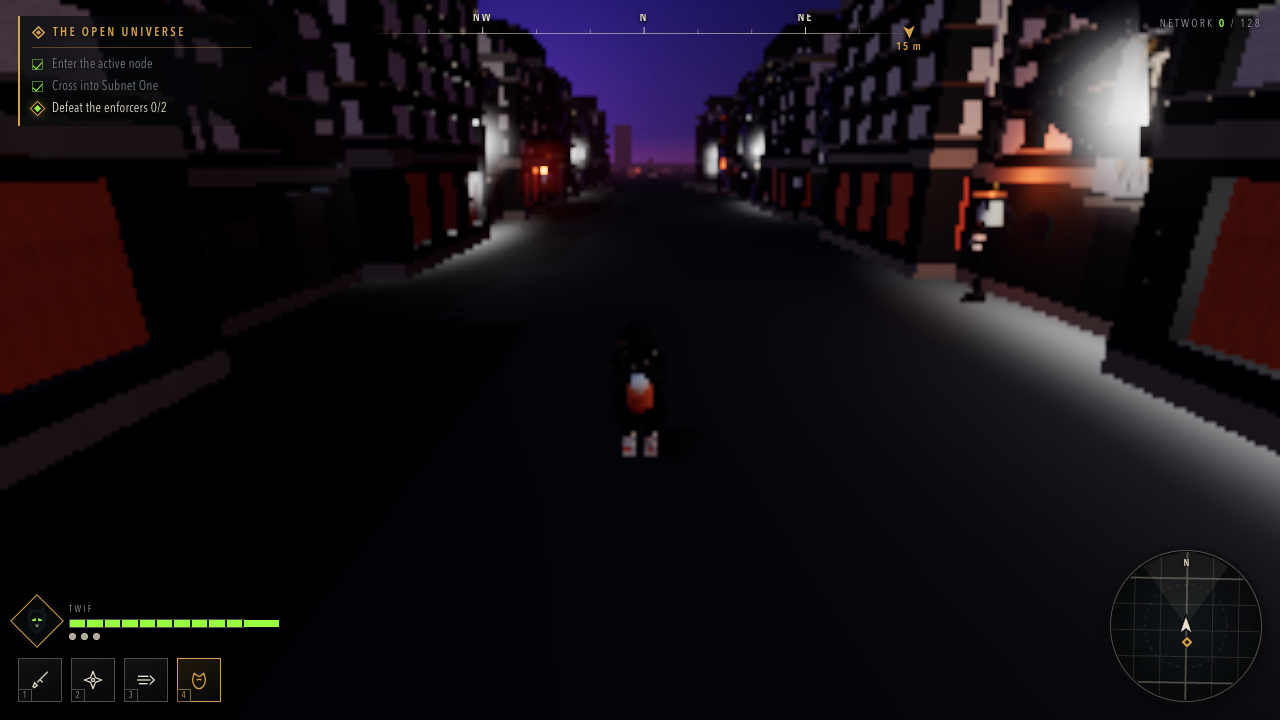
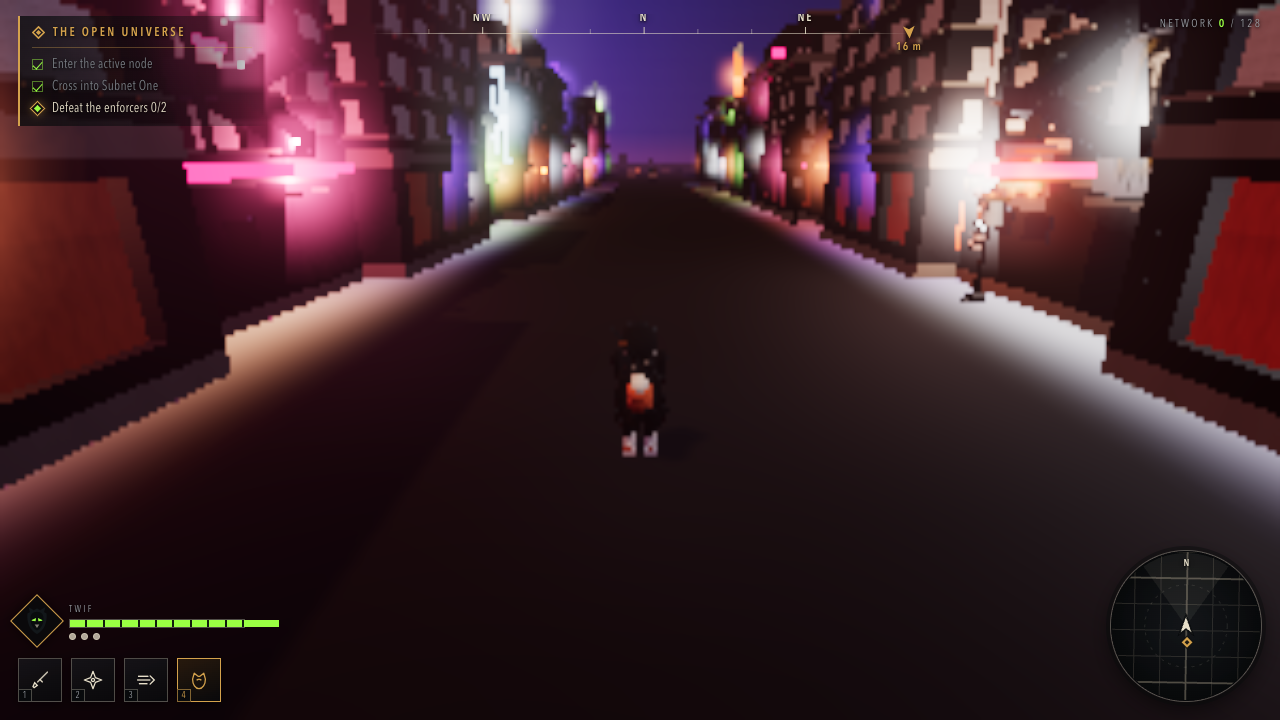
Neon street: blades, billboards and colour on the ground
The build read as grey boxes because the concept frames are mostly NEON, and
we had almost none. Added vertical blade signs marching up both sides, big
billboards on the upper facades using the poster art, and low strips along
the shopfront line -- that last one is what puts colour on the ground rather
than only on the walls. Every panel lights what is around it.

Landmarks placed: TAO MART (its sign letterboxed onto the real fascia rather
than stretched 50% to fit), the control node, and the corporate entrance.

Two tuning passes, both from looking: emissive at 2.4 blew every sign to
white and took the hue with it, so it is 1.45 and the bloom does the glow;
and the first hero rim light flooded the whole road, so it is a quarter of
the strength and sits at head height.

diff --git a/game/src/world.js b/game/src/world.js
@@ -4,7 +4,7 @@
 import * as THREE from 'three';
 import { mergeGeometries } from 'three/addons/utils/BufferGeometryUtils.js';
 import { ASSET } from '../assetlib.js';
-import { loadSignage, makeBanner, makePoster, makeFascia } from './signage.js';
+import { loadSignage, makeSign, makeBanner, makePoster, makeFascia } from './signage.js';
 import { SCALE, HUB, SUB } from './config.js';
 
 const M = (color, opts = {}) => new THREE.MeshStandardMaterial({ color, roughness: 0.82, ...opts });
@@ -119,6 +119,11 @@ export async function loadAssets(onProgress = () => {}) {
   await tryAsset('block',   './assets/shop_block.js',     { surfaces: true });
   await tryAsset('shrine',  './assets/const_shrine.js',   { surfaces: true });
   await tryAsset('dojo',    './assets/dojo_facade.js',    { surfaces: true });
+  await tryAsset('store',   './assets/convenience_store.js', { surfaces: true });
+  await tryAsset('node',    './assets/control_node.js',   { surfaces: true });
+  await tryAsset('corp',    './assets/corp_entrance.js',  { surfaces: true });
+  await tryAsset('crate',   './assets/street_crate.js',   { surfaces: true });
+  await tryAsset('barrier', './assets/traffic_barrier.js',{ surfaces: true });
   onProgress(1, 'ready');
 }
 
@@ -378,16 +383,26 @@ export function buildSubnet() {
   arena.position.set(X, -0.3, SUB.arenaZ); arena.receiveShadow = true;
   g.add(arena);
 
-  const tower = new THREE.Mesh(new THREE.BoxGeometry(10, 26, 10), MAT.cream);
   // Off-axis on purpose: centred here it walls off the return gate behind it
   // and the mission cannot be finished.
-  tower.position.set(X - 19, 13, SUB.arenaZ - 18); tower.castShadow = true;
-  g.add(tower);
+  const genCorp = charInstance('corp');
+  if (genCorp) {
+    genCorp.position.set(X - 19, 0, SUB.arenaZ - 18);
+    genCorp.rotation.y = Math.PI * 0.72;
+    g.add(genCorp);
+    const cl = new THREE.PointLight(0xBFE4FF, 10, 26, 2);
+    cl.position.set(X - 15, 4.2, SUB.arenaZ - 14); g.add(cl);
+  } else {
+    const tower = new THREE.Mesh(new THREE.BoxGeometry(10, 26, 10), MAT.cream);
+    tower.position.set(X - 19, 13, SUB.arenaZ - 18); tower.castShadow = true;
+    g.add(tower);
+  }
   blockers.push({ x: X - 19, z: SUB.arenaZ - 18, hx: 5, hz: 5 });
 
   // the control node: the thing the mission is about
-  const node = new THREE.Mesh(new THREE.BoxGeometry(2.4, 6, 2.4), MAT.metal);
-  node.position.set(X, 3, SUB.arenaZ);
+  const genNode = charInstance('node');
+  const node = genNode || new THREE.Mesh(new THREE.BoxGeometry(2.4, 6, 2.4), MAT.metal);
+  node.position.set(X, genNode ? 0 : 3, SUB.arenaZ);
   g.add(node);
   blockers.push({ x: X, z: SUB.arenaZ, hx: 1.4, hz: 1.4 });
 
@@ -416,7 +431,27 @@ export function buildSubnet() {
   const FACE_R = -Math.PI / 2;   // right-hand buildings face -X
 
   // the shopfront that anchors the street
-  litSign(makeFascia('sign_taomart', 5.6, MAT.metal), X + 7.9, 3.5, SUB.streetZ0 - 12, FACE_R, 0xE66D32, 17);
+  const genStore = charInstance('store');
+  if (genStore) {
+    genStore.position.set(X + 11.4, 0, SUB.streetZ0 - 30);
+    genStore.rotation.y = FACE_R;
+    g.add(genStore);
+    // The store's fascia is 4.67:1 and the art is 3.04:1, so the sign is sized
+    // to the panel's HEIGHT and centred — stretched lettering is worse than a
+    // margin, and the fascia is a lightbox field so cream margins read right.
+    const sign = makeSign('sign_taomart', 1.42, { glow: 1.4 });
+    if (sign) {
+      sign.position.set(X + 8.36, 2.90, SUB.streetZ0 - 30 + 0.02);
+      sign.rotation.y = FACE_R;
+      g.add(sign);
+      const sl = new THREE.PointLight(0xE66D32, 11, 18, 2);
+      sl.position.set(X + 7.2, 2.6, SUB.streetZ0 - 30);
+      g.add(sl);
+    }
+    blockers.push({ x: X + 11.4, z: SUB.streetZ0 - 30, hx: 3.2, hz: 4.0 });
+  } else {
+    litSign(makeFascia('sign_taomart', 5.6, MAT.metal), X + 7.9, 3.5, SUB.streetZ0 - 12, FACE_R, 0xE66D32, 17);
+  }
 
   // hanging banners down both sides, alternating, breaking the silhouette
   const banners = ['banner_build', 'banner_build', 'banner_build'];
@@ -439,6 +474,76 @@ export function buildSubnet() {
     p.position.set(X + (left ? -7.88 : 7.88), 2.4, z);
     p.rotation.y = left ? FACE_L : FACE_R;
     g.add(p);
+  }
+
+  // ---- NEON. This is what the concept frames are actually made of: big
+  // saturated blades and boxes up the facades, throwing magenta and cyan onto
+  // grey buildings. Each panel is one draw call and each one lights what is
+  // around it, because a sign that glows without touching the wall behind it is
+  // the failure this whole domain is known for.
+  const NEON = [
+    0xFF2D8A, 0x6B3FD4, 0x9AFF43, 0xE66D32, 0xBFE4FF, 0xFF2D8A, 0x6B3FD4, 0xE66D32,
+  ];
+  const neonMat = (color) => new THREE.MeshStandardMaterial({
+    color, emissive: new THREE.Color(color), emissiveIntensity: 1.45,
+    roughness: 0.4, side: THREE.DoubleSide,
+  });
+
+  const addNeon = (w, h, x, y, z, ry, color, lightRange) => {
+    const m = new THREE.Mesh(new THREE.PlaneGeometry(w, h), neonMat(color));
+    m.position.set(x, y, z);
+    m.rotation.y = ry;
+    g.add(m);
+    if (lightRange) {
+      const pl = new THREE.PointLight(color, 7, lightRange, 2);
+      pl.position.set(x + Math.sin(ry) * 1.4, y, z + Math.cos(ry) * 1.4);
+      g.add(pl);
+    }
+    return m;
+  };
+
+  // tall vertical blade signs projecting from the facades, alternating sides,
+  // marching up the street — the single most recognisable shape in the frames
+  for (let i = 0; i < 11; i++) {
+    const z = SUB.streetZ0 - 6 - i * 10.5;
+    const left = i % 2 === 0;
+    const x = X + (left ? -8.3 : 8.3);
+    const ry = left ? FACE_L : FACE_R;
+    const color = NEON[i % NEON.length];
+    const h = 3.2 + (i % 3) * 1.4;
+    const y = 5.5 + (i % 4) * 1.9;
+    // the blade itself, edge-on to the street so it reads down the corridor
+    addNeon(0.9, h, x, y, z, ry + Math.PI / 2, color, i % 2 ? 16 : 0);
+    // a horizontal box on the wall beside it
+    addNeon(2.6, 0.62, x - Math.sin(ry) * 0.12, y - h / 2 - 0.8, z, ry, NEON[(i + 3) % NEON.length], 0);
+  }
+
+  // big billboards high on the blocks, using the poster art
+  const boards = ['poster_mog', 'poster_gym', 'poster_const', 'poster_dare'];
+  for (let i = 0; i < boards.length; i++) {
+    const z = SUB.streetZ0 - 26 - i * 27;
+    const left = i % 2 === 1;
+    const x = X + (left ? -8.25 : 8.25);
+    const ry = left ? FACE_L : FACE_R;
+    const b = makeSign(boards[i], 5.4, { glow: 1.25 });
+    if (b) {
+      b.position.set(x, 11.5, z);
+      b.rotation.y = ry;
+      g.add(b);
+      const pl = new THREE.PointLight(0xE7DFC9, 6, 20, 2);
+      pl.position.set(x + Math.sin(ry) * 2.2, 11.5, z + Math.cos(ry) * 2.2);
+      g.add(pl);
+    }
+  }
+
+  // low neon strips along the shopfront line, which is what puts colour on the
+  // wet ground rather than only on the walls
+  for (let i = 0; i < 14; i++) {
+    const z = SUB.streetZ0 - 4 - i * 8;
+    for (const side of [-1, 1]) {
+      addNeon(6.5, 0.28, X + side * 8.2, 3.05, z, side < 0 ? FACE_L : FACE_R,
+        NEON[(i + (side > 0 ? 2 : 5)) % NEON.length], 0);
+    }
   }
 
   // the dojo poster wall near Max, so the tutorial beat has somewhere to look

diff --git a/game/src/main.js b/game/src/main.js
@@ -62,6 +62,10 @@ let blockers = hub.blockers;
 const input = new Input();
 const audio = new Audio();
 const player = new Player(scene);
+const heroRim = new THREE.PointLight(0xBFE4FF, 1.5, 4.2, 2);
+scene.add(heroRim);
+const heroKey = new THREE.PointLight(0xE7DFC9, 0.9, 3.4, 2);
+scene.add(heroKey);
 const van = new Van(scene);
 const mission = new Mission(scene, hub, sub, player, van);
 const beacon = makeBeacon();
@@ -287,6 +291,8 @@ function step(dt) {
   camera.lookAt(camAim);
 
   lighting.update(dt, target);
+  heroRim.position.set(target.x - Math.sin(camYaw) * 1.5, target.y + 2.2, target.z - Math.cos(camYaw) * 1.5);
+  heroKey.position.set(target.x + Math.sin(camYaw) * 1.1, target.y + 1.7, target.z + Math.cos(camYaw) * 1.1);
 
   // ---- wayfinding
   const wp = mission.waypoint();

diff --git a/game/assets/vending_machine.js b/game/assets/vending_machine.js
@@ -130,7 +130,7 @@ export default function (THREE) {
     box(0.045, 0.66, 0.34, dark, s * 0.462, 1.00, 0.06);     // access hatch
     for (const z of [-0.06, 0.18]) box(0.02, 0.05, 0.05, alloy, s * 0.489, 1.28, z);
     box(0.03, 0.07, 0.20, alloy, s * 0.485, 0.74, 0.14);     // lever handle
-    add(new THREE.CylinderGeometry(0.035, 0.035, 1.26, 6), alloy, s * 0.462, 0.86, -0.16);
+    add(new THREE.CylinderGeometry(0.032, 0.032, 1.26, 6), trim, s * 0.462, 0.86, -0.16);
     box(0.05, 0.16, 0.14, dark, s * 0.468, 1.57, -0.16);      // junction box
     for (const y of [0.35, 1.30]) box(0.055, 0.05, 0.10, alloy, s * 0.465, y, -0.16);
   }

diff --git a/work/candidates/shop/final/vending_machine.js b/work/candidates/shop/final/vending_machine.js
@@ -130,7 +130,7 @@ export default function (THREE) {
     box(0.045, 0.66, 0.34, dark, s * 0.462, 1.00, 0.06);     // access hatch
     for (const z of [-0.06, 0.18]) box(0.02, 0.05, 0.05, alloy, s * 0.489, 1.28, z);
     box(0.03, 0.07, 0.20, alloy, s * 0.485, 0.74, 0.14);     // lever handle
-    add(new THREE.CylinderGeometry(0.035, 0.035, 1.26, 6), alloy, s * 0.462, 0.86, -0.16);
+    add(new THREE.CylinderGeometry(0.032, 0.032, 1.26, 6), trim, s * 0.462, 0.86, -0.16);
     box(0.05, 0.16, 0.14, dark, s * 0.468, 1.57, -0.16);      // junction box
     for (const y of [0.35, 1.30]) box(0.055, 0.05, 0.10, alloy, s * 0.465, y, -0.16);
   }

diff --git a/game/src/lighting.js b/game/src/lighting.js
@@ -462,7 +462,7 @@ export function createLighting(THREE, renderer, scene, opts = {}) {
   function rebuild() {
     dirty = false;
     let n = 0, h = 0;
-    const capP = pools.count = 0;
+    pools.count = 0;
     for (const L of lamps) {
       if (!L.live) continue;
       if (n + 2 > O.capacity) break;
@@ -498,7 +498,6 @@ export function createLighting(THREE, renderer, scene, opts = {}) {
         h++;
       } else L.halo_i = -1;
     }
-    void capP;
     pools.count = n;
     halos.count = h;
     pools.instanceMatrix.needsUpdate = true;
